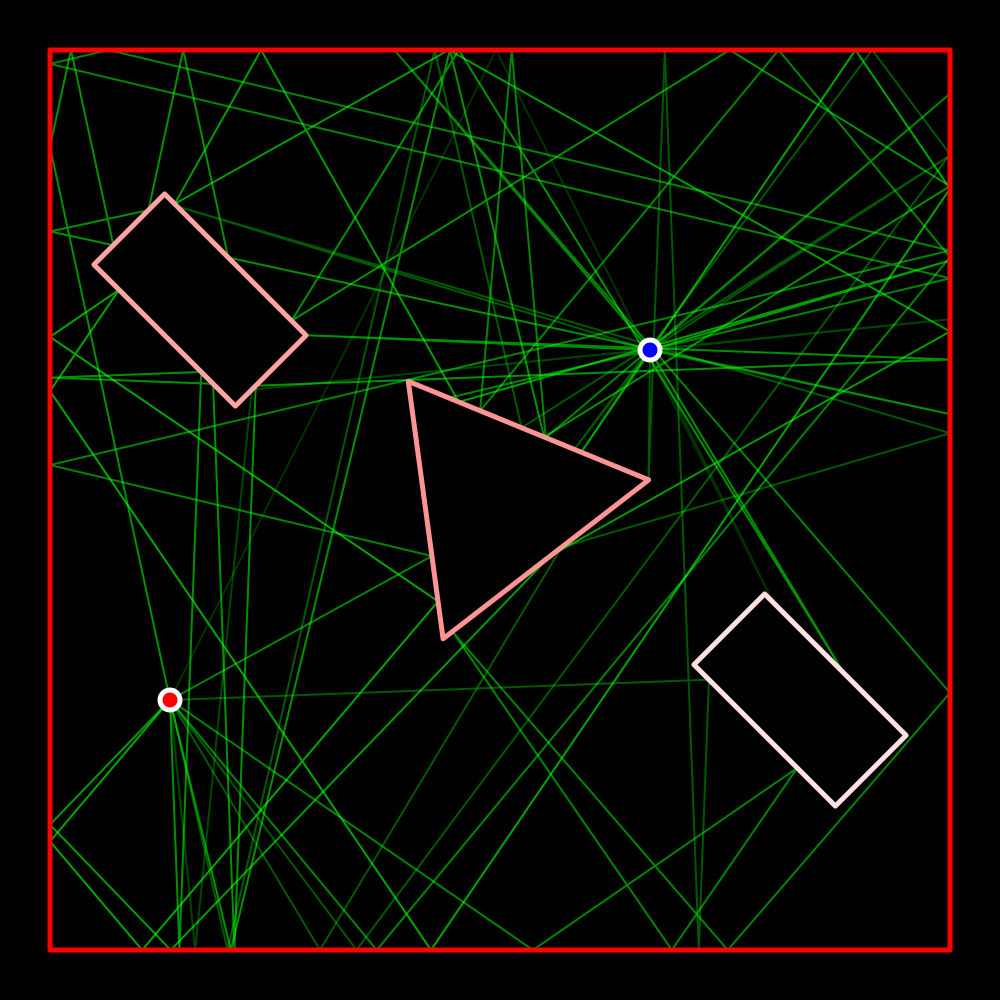
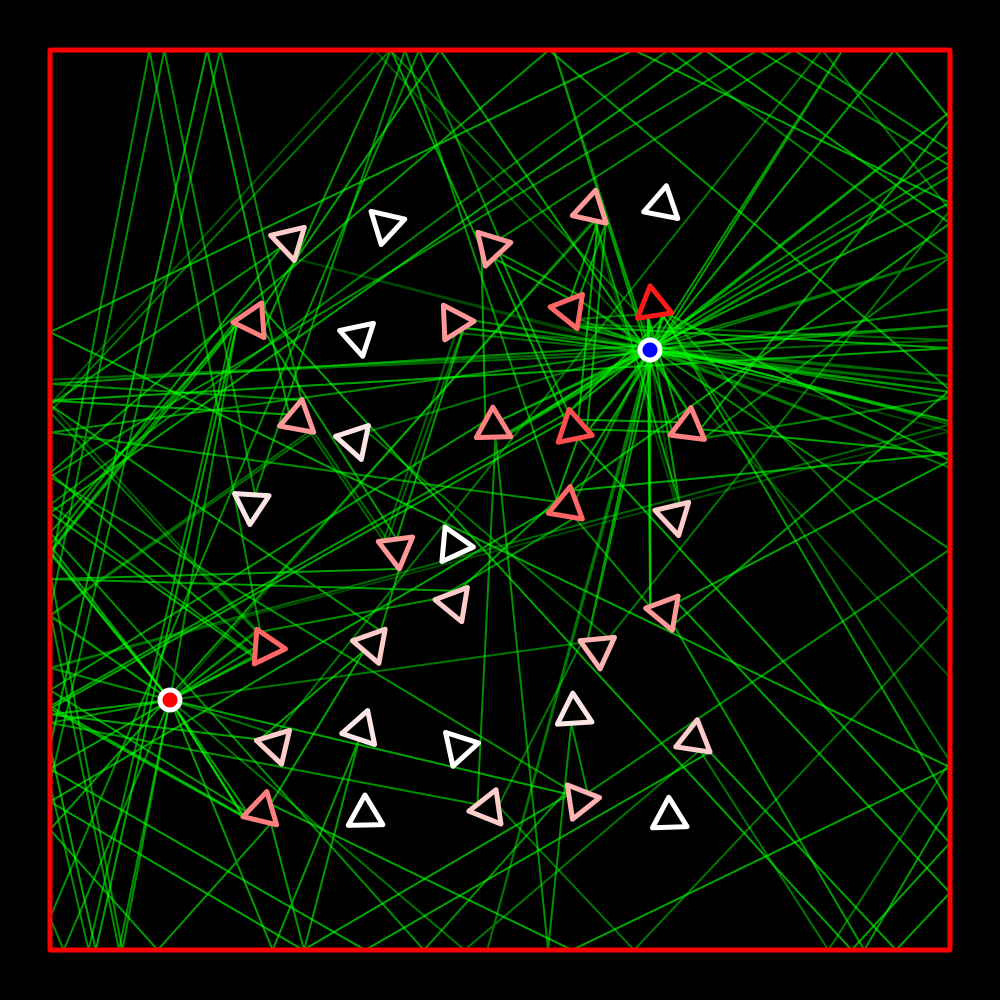
added more examples yaya

diff --git a/samples/maze_1.py b/samples/maze_1.py
@@ -1,0 +1,22 @@
+from __future__ import annotations
+from math import pi
+from random import seed
+from copy import deepcopy
+from multipatprop import System, Transmitter, Receiver, Interferer, Point, DigitalSignal
+from render import render
+
+seed(123)
+
+points_1 = [Point(-2, 0), Point(4, -2), Point(4, 3), Point(-2, 3), Point(-3, 3), Point(-3, 1), Point(2, 2), Point(2, 0), Point(-1, 0), Point(-2, 0)]
+points_2 = [Point(-2, 0), Point(4, -2), Point(4, 3), Point(-2, 3), Point(-3, 3), Point(-3, 1), Point(2, 2), Point(2, 0), Point(-1, 0), Point(-2, 0)]
+
+transmitter = Transmitter(Point(-1.3, -2))
+receiver = Receiver(Point(1.5, 1.5))
+interferers = [Interferer.square(Point(0, 0), 9, 0),
+               Interferer.shape(points=points_1, position=Point(1, 1), scale=0.8, rotation=0),
+               Interferer.shape(points=points_2, position=Point(-1, -1), scale=0.8, rotation=pi)]
+system = System(transmitter, receiver, interferers)
+multipath = system.get_multipath(starting_number=3000, receiver_diameter=0.1, max_reflections=10)
+camera_position = Point(0, 0)
+camera_zoom = 0.1
+render(system, multipath, camera_position, camera_zoom, ui_size=1, bins=15, red_factor=3)
